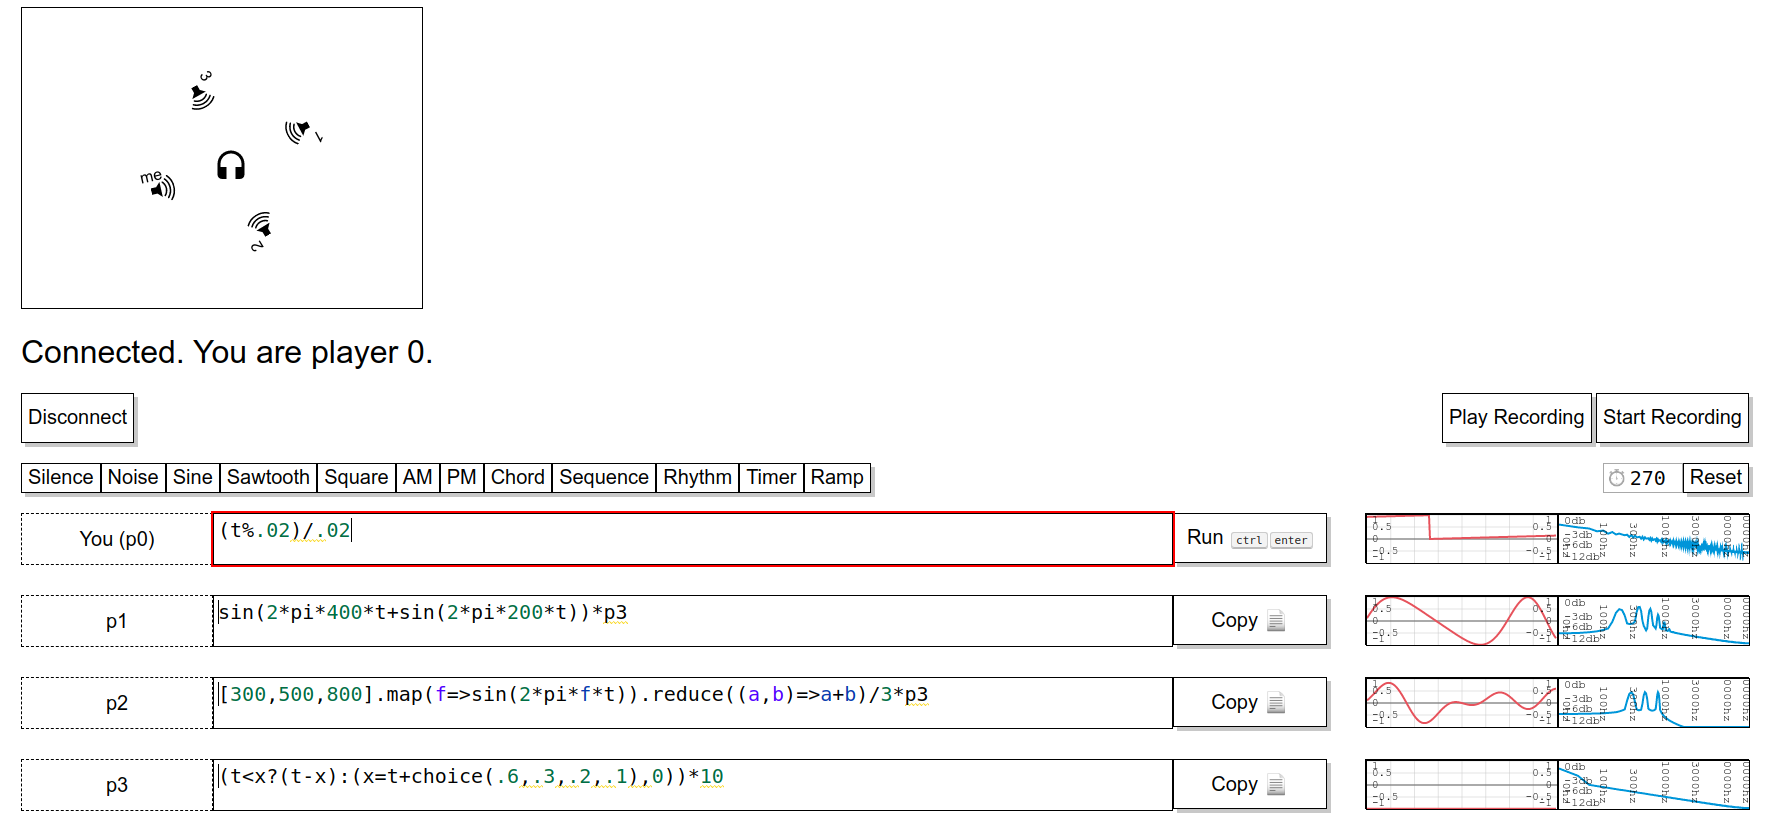
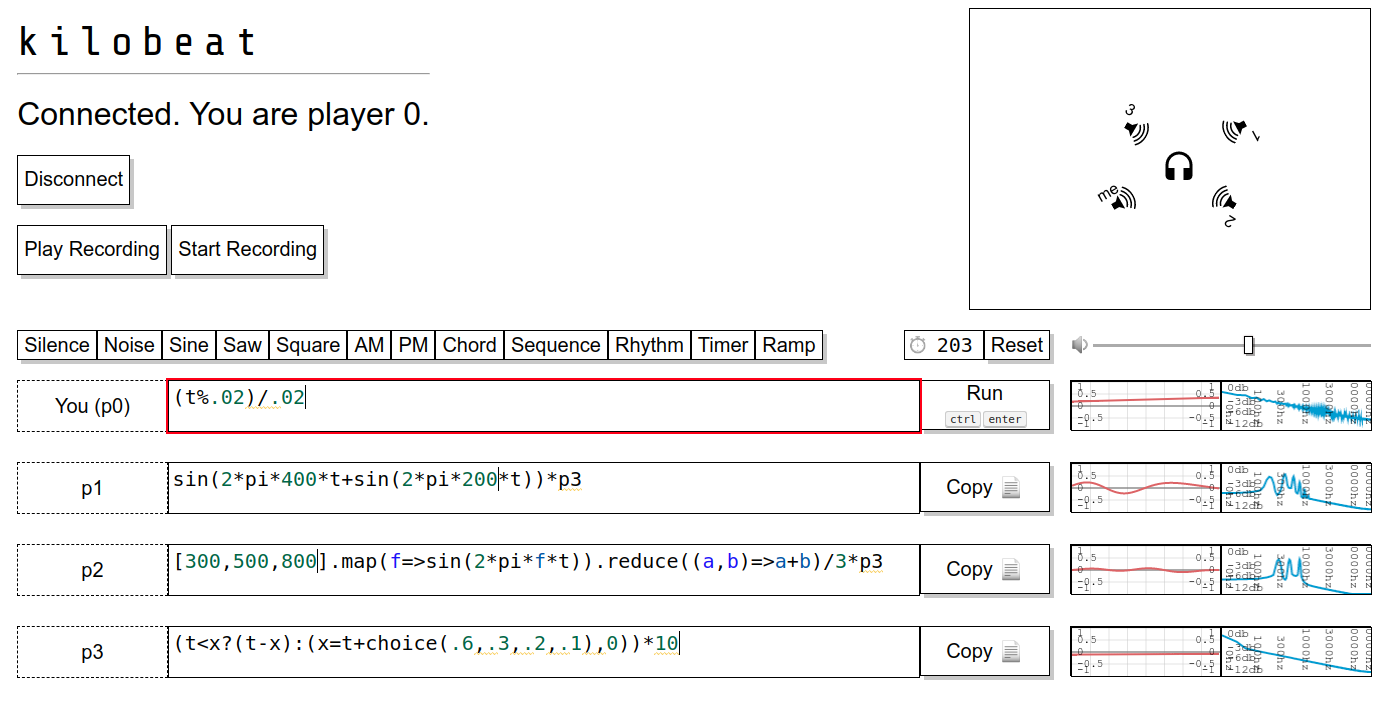
Revamp layout, add master volume control.
Also, added title in a nice font (Share Tech Mono, by Carrois
Apostophe), a favicon, and an updated screenshot.

diff --git a/static/index.html b/static/index.html
@@ -2,10 +2,13 @@
 <html>
 <head>
   <title>kilobeat</title>
+  <link rel="shortcut icon" type="image/x-icon" href="favicon.ico">
+
+  <link href="https://fonts.googleapis.com/css2?family=Share+Tech+Mono&display=swap" rel="stylesheet">
+
   <script src="lib/codemirror/codemirror.js"></script>
   <link rel="stylesheet" href="lib/codemirror/codemirror.css">
   <script src="lib/codemirror/javascript.js"></script>
-
   <script src="lib/codemirror/matchbrackets.js"></script>
   <script src="lib/codemirror/trailingspace.js"></script>
   <script src="lib/codemirror/closebrackets.js"></script>
@@ -18,6 +21,7 @@
 
   <script src="livecode.js" type="module"></script>
   <link rel="stylesheet" href="livecode.css">
+  <link rel="stylesheet" href="slider.css">
 
   <script src="https://cdnjs.cloudflare.com/ajax/libs/socket.io/2.2.0/socket.io.js" integrity="sha256-yr4fRk/GU1ehYJPAs8P4JlTgu0Hdsp4ZKrx8bDEDC3I=" crossorigin="anonymous"></script>
 </head>
@@ -27,45 +31,53 @@
     <div id="unsupported">
       <h2>Your browser does not support AudioWorklet</h2>
       <p>
-        AudioWorklet is currently only available in Chrome 66+
+        AudioWorklet is currently only available in Chrome 66+ and Firefox 76+.
       </p>
     </div>
 
-    <div id="test-zone">
-      <canvas id="test-canvas" width="400" height="300"></canvas>
-    </div>
+    <div id="top">
+      <div id="top-left">
+        <h1 id="title">kilobeat</h1>
+        <hr>
 
-    <h1 id="status">Click anywhere to begin.</h1>
-    <div id="session-controls">
-      <div id="connect-box">
-        <input id="server-address" type="text" placeholder="Server address" value="kilobeat.herokuapp.com"/>
-        <button id="connect-btn">Connect</button>
-      </div>
-      <div id="disconnect-box" hidden>
-        <button id="disconnect-btn">Disconnect</button>
+        <h1 id="status">Click anywhere to begin.</h1>
+
+        <div id="connect-box">
+          <input id="server-address" type="text" placeholder="Server address" value="kilobeat.herokuapp.com"/>
+          <button id="connect-btn">Connect</button>
+        </div>
+
+        <div id="disconnect-box" hidden>
+          <button id="disconnect-btn">Disconnect</button>
+        </div>
+
+        <div id="play-record-box">
+          <button id="play-btn">Play Recording</button>
+          <input id="play-input" type="file" name="name" style="display: none;"/>
+          <button id="toggle-recording-btn">Start Recording</button>
+        </div>
       </div>
 
-      <div id="play-record-box">
-        <button id="play-btn">Play Recording</button>
-        <input id="play-input" type="file" name="name" style="display: none;"/>
-        <button id="toggle-recording-btn">Start Recording</button>
-      </div>
+      <canvas id="space-canvas" width="400" height="300"></canvas>
     </div>
 
     <div id="menu">
       <div id="presets"></div>
-      <div id="clock-wrapper">
-        <span id="clock-icon">⏱</span>
-        <input id="clock-display" type="number" value="0" readonly />
+      <div id="clock-wrapper-wrapper">
+        <div id="clock-wrapper">
+          <span id="clock-icon">⏱</span>
+          <input id="clock-display" type="number" value="0" readonly />
+        </div>
+        <div id="clock">
+        </div>
       </div>
-      <div id="clock">
-      </div>
+      <div id="volume-wrapper">
+        <span id="speaker-icon">🔉</span>
+        <input id="volume-slider" type="range"></div>
     </div>
     <div id="main">
     </div>
-    <div id="add-process-btn">
-      <button>+ Process</button>
-    </div>
+    <button id="add-process-btn">+ Process</button>
   </div>
 </body>
 </html>

diff --git a/static/slider.css b/static/slider.css
@@ -1,0 +1,87 @@
+/* Generated with http://danielstern.ca/range.css */
+
+input[type=range] {
+    -webkit-appearance: none;
+    width: 100%;
+    margin: 7.5px 0;
+  }
+  input[type=range]:focus {
+    outline: none;
+  }
+  input[type=range]::-webkit-slider-runnable-track {
+    width: 100%;
+    height: 3px;
+    cursor: pointer;
+    box-shadow: 0px 0px 0px rgba(0, 0, 0, 0), 0px 0px 0px rgba(13, 13, 13, 0);
+    background: rgba(0, 0, 0, 0.33);
+    border-radius: 0px;
+    border: 0px solid rgba(0, 0, 0, 0);
+  }
+  input[type=range]::-webkit-slider-thumb {
+    box-shadow: 2px 2px 0px rgba(5, 0, 0, 0.33), 0px 0px 2px rgba(31, 0, 0, 0.33);
+    border: 1px solid #000000;
+    height: 18px;
+    width: 9px;
+    border-radius: 0px;
+    background: #ffffff;
+    cursor: pointer;
+    -webkit-appearance: none;
+    margin-top: -7.5px;
+  }
+  input[type=range]:focus::-webkit-slider-runnable-track {
+    background: rgba(0, 0, 0, 0.33);
+  }
+  input[type=range]::-moz-range-track {
+    width: 100%;
+    height: 3px;
+    cursor: pointer;
+    box-shadow: 0px 0px 0px rgba(0, 0, 0, 0), 0px 0px 0px rgba(13, 13, 13, 0);
+    background: rgba(0, 0, 0, 0.33);
+    border-radius: 0px;
+    border: 0px solid rgba(0, 0, 0, 0);
+  }
+  input[type=range]::-moz-range-thumb {
+    box-shadow: 2px 2px 0px rgba(5, 0, 0, 0.33), 0px 0px 2px rgba(31, 0, 0, 0.33);
+    border: 1px solid #000000;
+    height: 18px;
+    width: 9px;
+    border-radius: 0px;
+    background: #ffffff;
+    cursor: pointer;
+  }
+  input[type=range]::-ms-track {
+    width: 100%;
+    height: 3px;
+    cursor: pointer;
+    background: transparent;
+    border-color: transparent;
+    color: transparent;
+  }
+  input[type=range]::-ms-fill-lower {
+    background: rgba(0, 0, 0, 0.33);
+    border: 0px solid rgba(0, 0, 0, 0);
+    border-radius: 0px;
+    box-shadow: 0px 0px 0px rgba(0, 0, 0, 0), 0px 0px 0px rgba(13, 13, 13, 0);
+  }
+  input[type=range]::-ms-fill-upper {
+    background: rgba(0, 0, 0, 0.33);
+    border: 0px solid rgba(0, 0, 0, 0);
+    border-radius: 0px;
+    box-shadow: 0px 0px 0px rgba(0, 0, 0, 0), 0px 0px 0px rgba(13, 13, 13, 0);
+  }
+  input[type=range]::-ms-thumb {
+    box-shadow: 2px 2px 0px rgba(5, 0, 0, 0.33), 0px 0px 2px rgba(31, 0, 0, 0.33);
+    border: 1px solid #000000;
+    height: 18px;
+    width: 9px;
+    border-radius: 0px;
+    background: #ffffff;
+    cursor: pointer;
+    height: 3px;
+  }
+  input[type=range]:focus::-ms-fill-lower {
+    background: rgba(0, 0, 0, 0.33);
+  }
+  input[type=range]:focus::-ms-fill-upper {
+    background: rgba(0, 0, 0, 0.33);
+  }

diff --git a/static/livecode.css b/static/livecode.css
@@ -49,7 +49,7 @@ button:active:hover, button.down {
 }
 
 button.run {
-  width: 80%;
+  margin-right: 20px;
 }
 
 button.run:hover {
@@ -74,6 +74,13 @@ button.run:active:hover, button.run.down {
   height: 30px;
 }
 
+/* oh boy */
+#clock-wrapper-wrapper {
+  margin-right: 20px;
+  display: flex;
+  justify-content: flex-end;
+}
+
 #clock-wrapper {
   position: relative;
 }
@@ -88,14 +95,31 @@ button.run:active:hover, button.run.down {
 #clock-display {
   height: 30px;
   box-sizing: border-box;
+  border: 1px black solid;
   text-align: right;
   font-family: monospace;
   font-size: x-large;
   width: 4em;
+  padding: 10px;
 }
 
 #clock button {
   height: 30px;
+}
+
+#volume-wrapper {
+  display: flex;
+  height: 30px;
+}
+
+#speaker-icon {
+  line-height: 30px;
+  width: 25px;
+  filter: grayscale(1);
+}
+
+#volume-slider {
+  flex-grow: 1;
 }
 
 .key-wrap {
@@ -124,7 +148,8 @@ button.run:active:hover, button.run.down {
 }
 
 #menu {
-  display: flex;
+  display: grid;
+  grid-template-columns: 5.5fr 1.5fr 2fr;
 }
 
 /* Hack. */
@@ -205,6 +230,20 @@ canvas {
   filter: grayscale(1) contrast(1.5) opacity(0.5);
 }
 
+#top {
+  display: flex;
+  justify-content: space-between;
+  margin-bottom: 20px;
+}
+
+#title {
+  font-family: 'Share Tech Mono', monospace;
+  margin-bottom: 0;
+  margin-top: 10px;
+  font-size: 42px;
+  letter-spacing: 0.2em;
+}
+
 #connect-box, #disconnect-box {
   margin-bottom: 20px;
 }
@@ -224,11 +263,16 @@ canvas {
   margin-top: 20px;
 }
 
-#session-controls {
-  display: flex;
-  justify-content: space-between;
-}
-
 [hidden] {
   display: none;
+}
+
+/* No arrows in number inputs. */
+input[type="number"]::-webkit-outer-spin-button,
+input[type="number"]::-webkit-inner-spin-button {
+    -webkit-appearance: none;
+    margin: 0;
+}
+input[type="number"] {
+    -moz-appearance: textfield;
 }

diff --git a/static/livecode.js b/static/livecode.js
@@ -583,6 +583,14 @@ function disconnect() {
   document.getElementById("add-process-btn").hidden = false;
 }
 
+function setVolume(frac) {
+  // Expects input in range [0, 1].
+  // Maps 0 to -72 dB, 1 to 0 dB.
+  const db = 72 * (frac - 1);
+  const gain = 10**(db/20)
+  outputNode.gain.value = gain;
+}
+
 function audio_ready() {
   document.getElementById("status").innerText = statusText.offline;
 
@@ -594,6 +602,10 @@ function audio_ready() {
   outputNode = audio.createGain();
   outputNode.gain.value = 0.2;
   outputNode.connect(audio.destination);
+  const volumeSlider = document.getElementById("volume-slider");
+  volumeSlider.value = 50;
+  setVolume(0.5);
+  volumeSlider.addEventListener('input', () => setVolume(volumeSlider.value / 100));
   // Position the listener at the origin.
   audio.listener.setPosition(0, 0, 0);
 
@@ -613,7 +625,7 @@ function audio_ready() {
     panner.setOrientation(Math.cos(angle), Math.sin(angle), 1);
     players[selectedPlayer].speaker = {x, y, angle};
   }
-  field = new Field(document.getElementById("test-canvas"), callback);
+  field = new Field(document.getElementById("space-canvas"), callback);
 
   document.getElementById("connect-btn").addEventListener("click", connect);
   document.getElementById("disconnect-btn").addEventListener("click", disconnect);
@@ -760,7 +772,6 @@ function audio_ready() {
       emit(selectedPlayer, "code", players[selectedPlayer].editor.getDoc().getValue());
       // TODO no magic indices
       const runButton = players[selectedPlayer].elements[2];
-      console.log('hey', runButton);
       runButton.classList.add("down");
       setTimeout(() => {
         if (runButton.classList.contains("down")) runButton.classList.remove("down");
